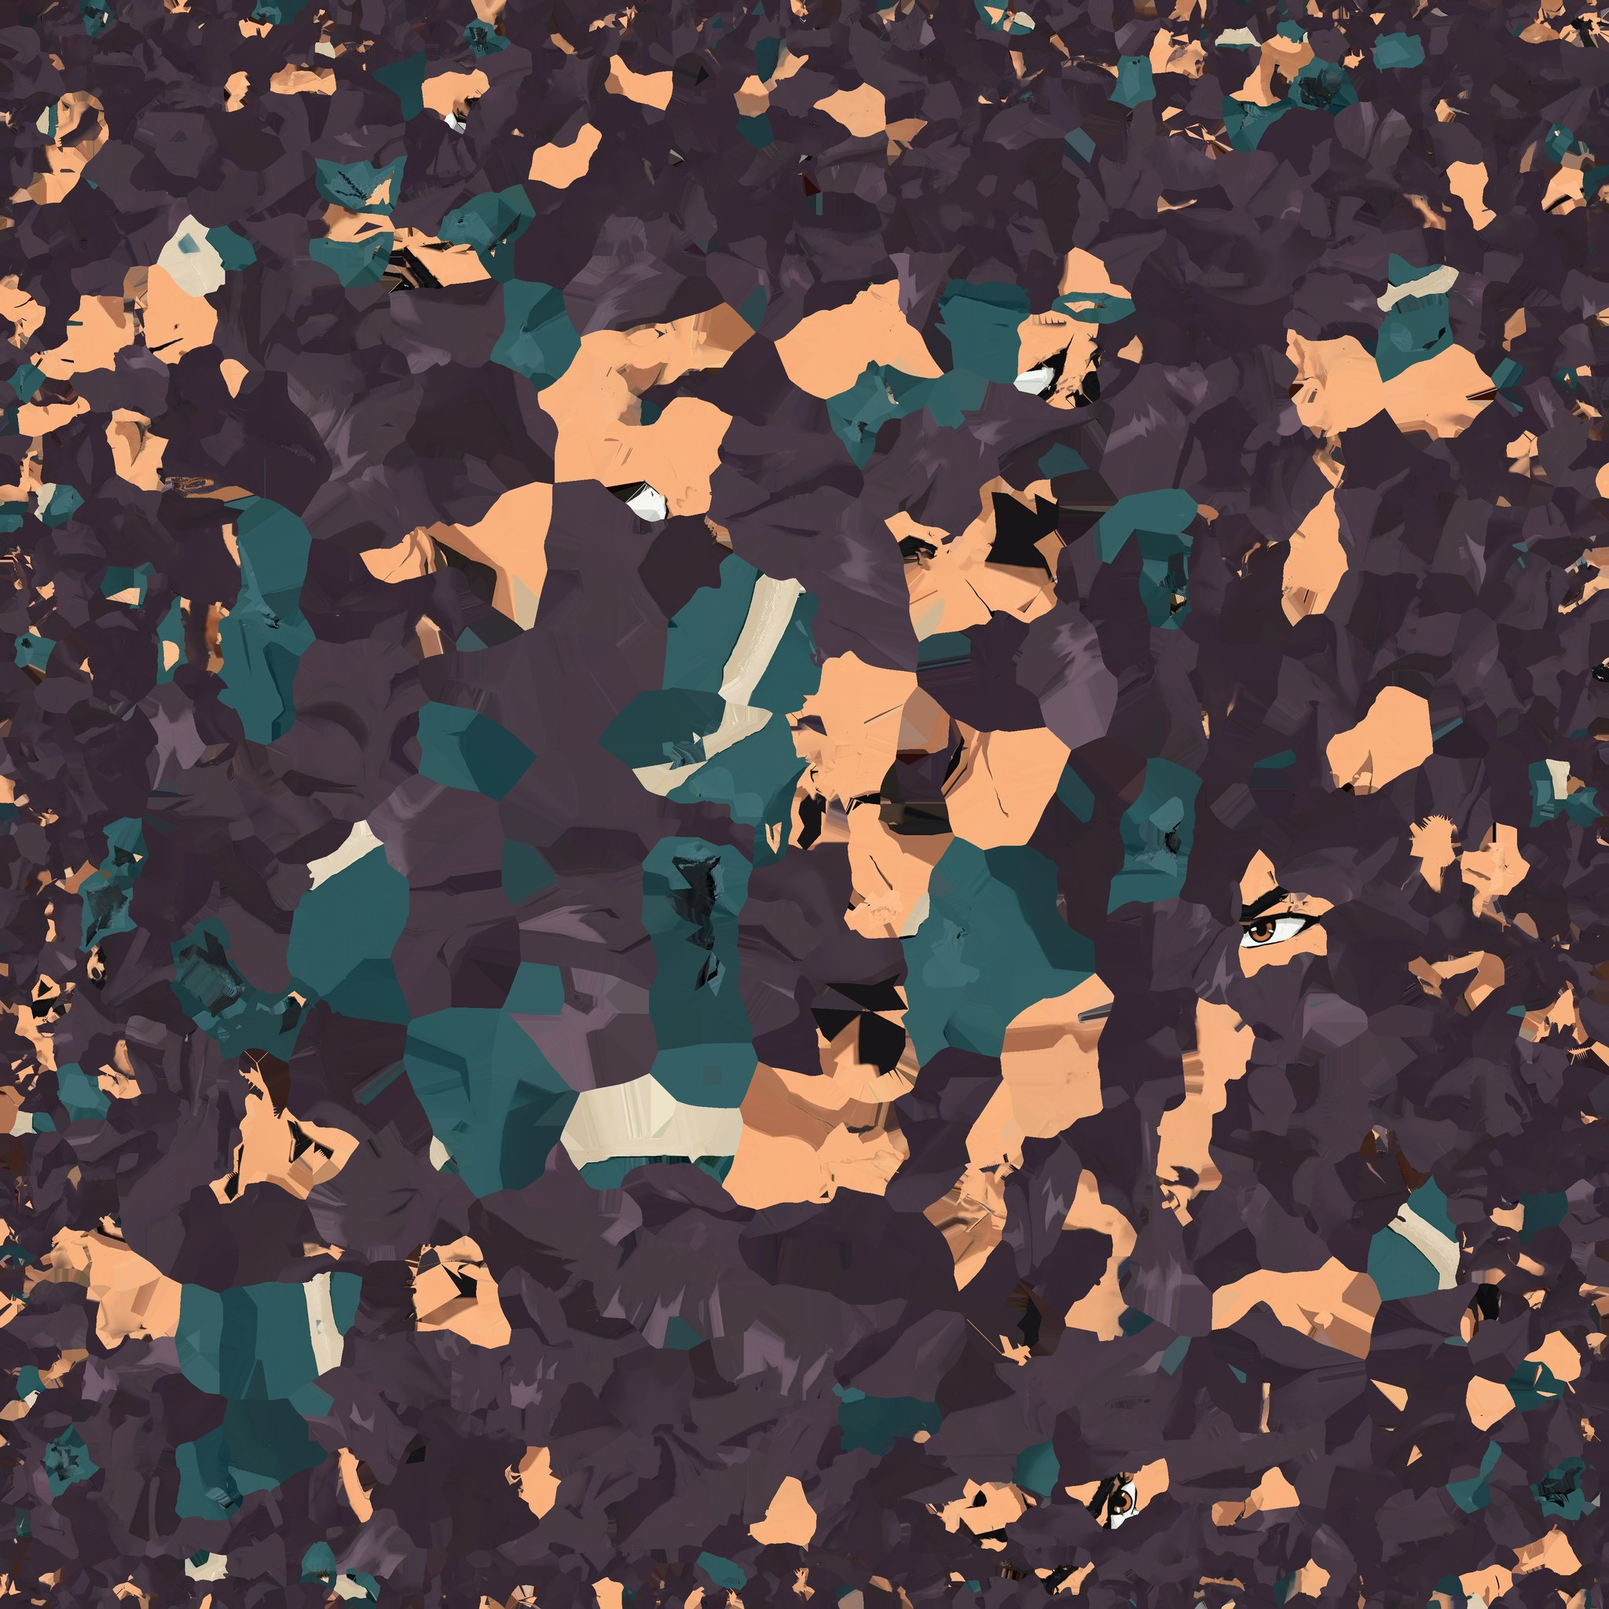
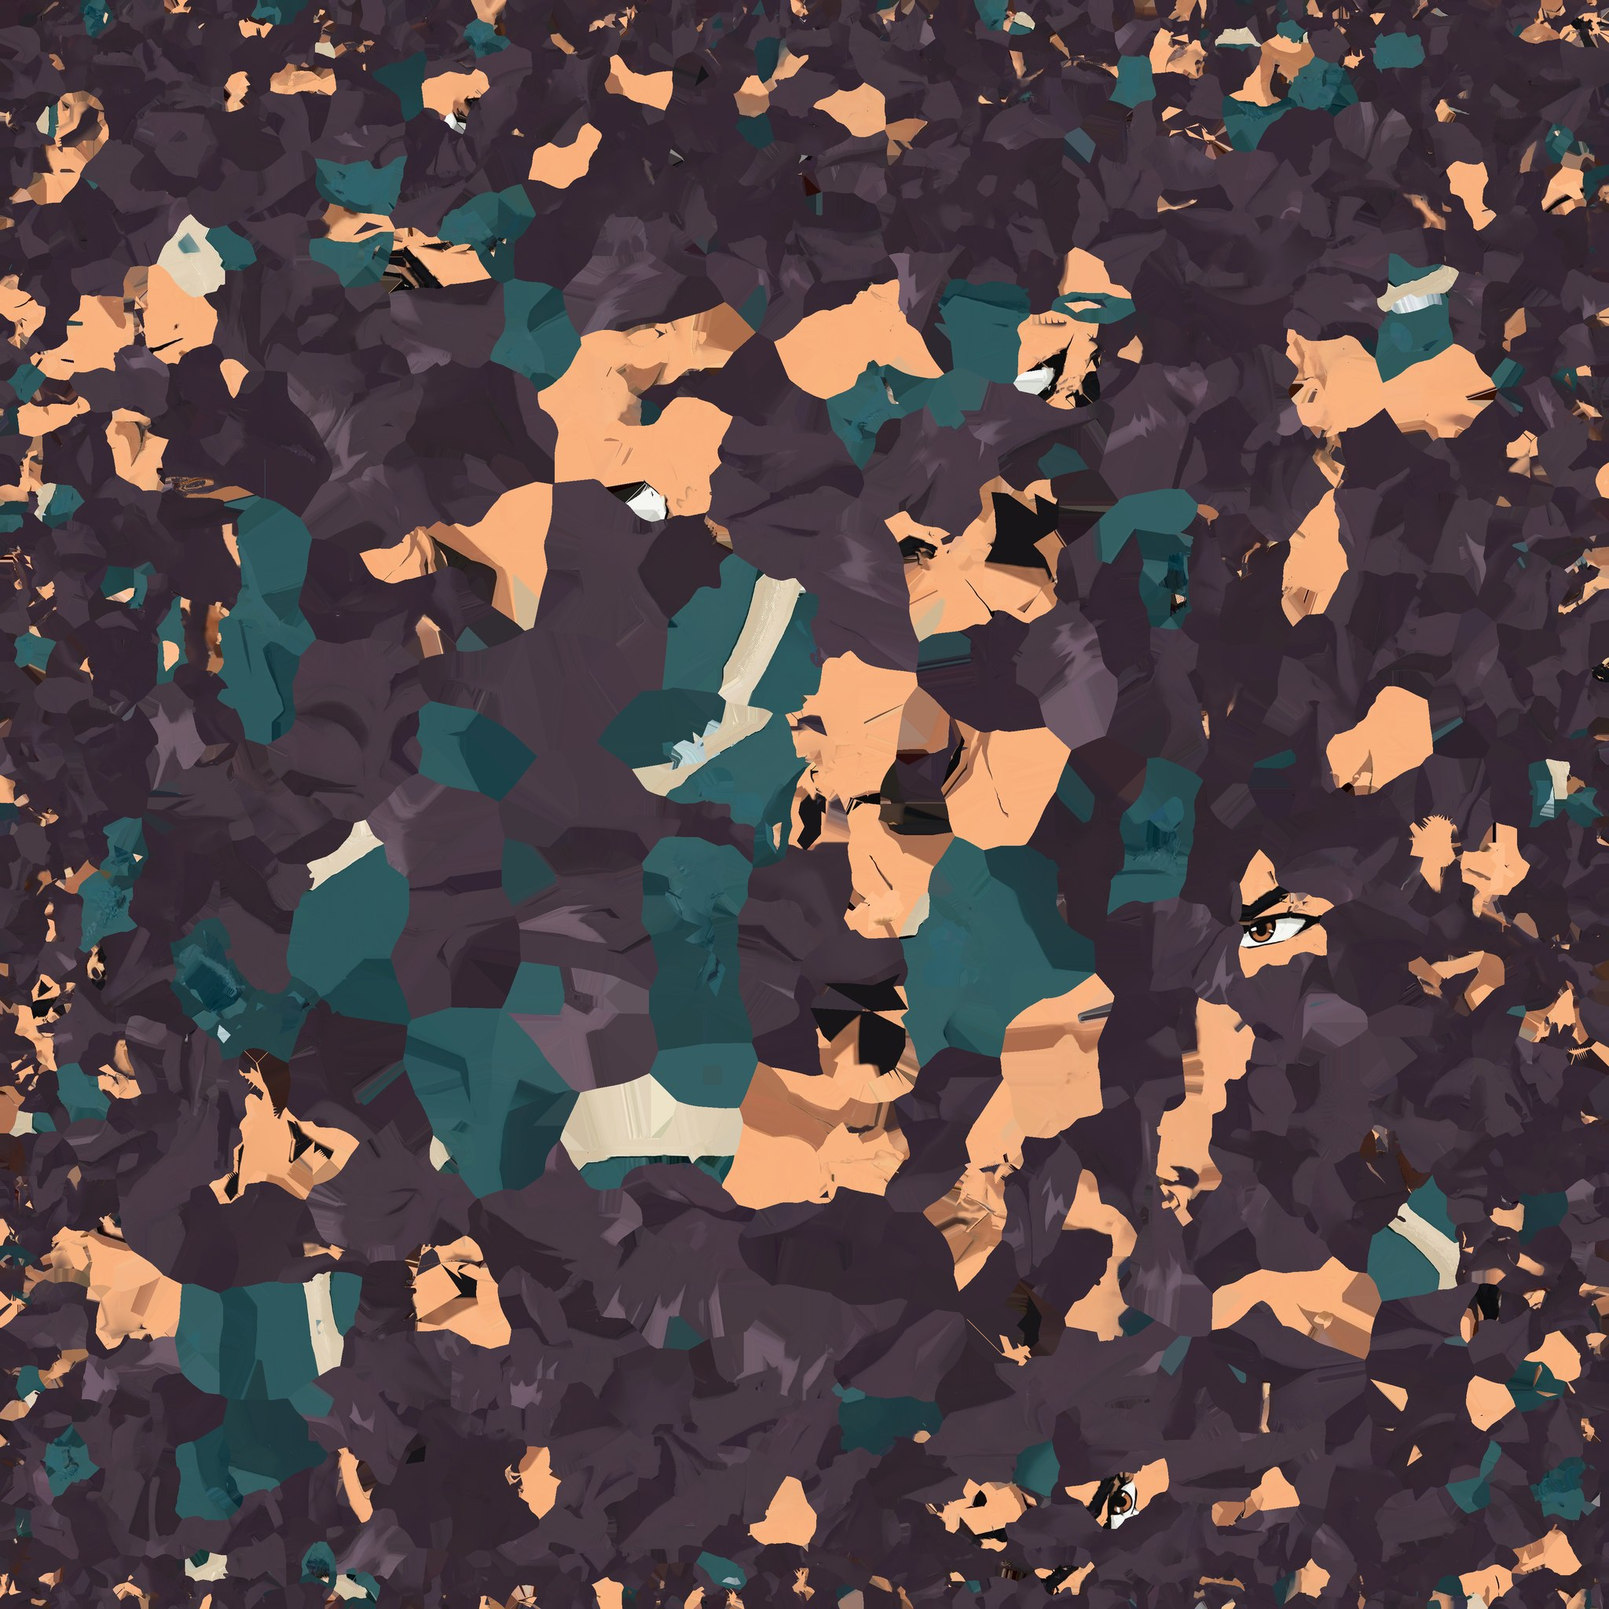
Anteprima di Ren: corpo nella pittura di Meshy con le righe dei fogli ricalcate
tools/paint_meshy.py: la pittura del look parte dalla texture di Meshy
(piu' pulita, chiesto da Denis); l'arancione delle vecchie code, dipinto
anche sui pantaloni e sulle punte del gilet, prende il colore dei
vestiti intorno; sopra, leggere, le righe sottili dei fogli. Bordi dei
pezzi e JPEG a colore pieno: niente arancione che sbava nei pantaloni.
Viso e testa invariati.

Claude-Session: https://claude.ai/code/session_014XUVKvWBodq3kjfPiKyGRo

diff --git a/tools/paint_meshy.py b/tools/paint_meshy.py
@@ -1,0 +1,87 @@
+#!/usr/bin/env python3
+"""Ren's body in Meshy's own paint with the drawings' lines traced lightly over it (8/11/2026, Denis: "il modello di
+meshy senza i tuoi disegni è molto più pulito nei vestiti ed il resto del corpo ... rifarlo disegnato come meshy ma con
+leggeri calchi"); the head (tools/ren_head.py) is not touched.
+
+usage: python3 tools/paint_meshy.py PACKAGE_DIR DRAWN.jpg OUT.jpg
+  PACKAGE_DIR  the tools/meshy_pack.py package: its texture is the base
+  DRAWN.jpg    the drawings painted on the model (tools/paint_from_drawing.py, then tools/paint_views.py): only their
+               thin dark lines are taken
+  OUT.jpg      the look's paint (viewer_assets/ren/ren_painted.jpg)
+
+- the old tails' paint: Meshy painted the sash's tails on the trousers and the vest's flaps under them too (orange specks
+  and streaks under the band, where the tails hung; the tails' own shapes are hidden, tools/ren_head.py): those texels
+  (orange or its brown mixes, under the band, not on the arms nor on the tails' hidden shapes) take the colour of the
+  nearest texel (on the model, in 3D) that is not, softened among themselves;
+- the tracing: the drawings' dark lines (darker than TRACE_LUM, thinner than about 2 TRACE_W + 1 texels: not the big
+  black shapes of the folds; in pieces of TRACE_MIN texels or more: lines, not specks) over Meshy's paint in TRACE_INK,
+  TRACE_ALPHA opaque; not on the hands (drawn spread differently) nor on the head;
+- the texels between the pieces take their nearest piece's colour (as the other paints).
+"""
+import os, sys
+import numpy as np
+from PIL import Image, ImageDraw
+from scipy import ndimage
+from scipy.spatial import cKDTree
+
+sys.path.insert(0, os.path.dirname(os.path.abspath(__file__)))
+from paint_views import load, texel_table
+from ren_look import sash_tails, SASH_BAND
+
+TRACE_LUM, TRACE_W, TRACE_ALPHA, TRACE_INK, TRACE_MIN = 50., 2, .6, np.array([22., 20, 26]), 30
+TAIL_LOW, FILL_K = .12, 48   # the old tails' paint: from this height (m) up to the band; its fill: the median of that many texels
+
+
+def orangeish(c):
+    """Orange and its browns, light or dark (n x 3): warm (red over blue and green) and strongly so for their
+    brightness (not the trousers' purple grey, nor the boots' beige trim, nor the wraps' warm white)."""
+    r, g, b = c[:, 0], c[:, 1], c[:, 2]
+    return (r > 20) & (r - b > 16) & (r - g > 10) & ((r - b) > .25 * r)
+
+
+def main(pkg, drawn, out):
+    name, P, N, UV, I, HEADW, HANDW, FOREW, ARMW = load(pkg)
+    T = np.asarray(Image.open(os.path.join(pkg, name + '.jpg')).convert('RGB')).astype(np.float64); TS = T.shape[0]
+    Dw = np.asarray(Image.open(drawn).convert('RGB')).astype(np.float64)
+    if Dw.shape != T.shape: sys.exit('the drawn paint and the package\'s texture differ in size')
+    ys, xs, ks, bary, pos, nor = texel_table(P, N, UV, I, TS)
+    at = lambda W_: (W_[I[ks]] * bary).sum(1)
+    hw, hdw, aw = at(HEADW), at(HANDW), at(ARMW)
+    # the old tails' shapes (hidden by ren_head.py): they give no colour, and take the clothes' too (their orange, though
+    # hidden, bled along the seams into the trousers next to them in the texture: the filtering, the mipmaps)
+    vcol = T[np.clip((UV[:, 1] * TS).astype(int), 0, TS - 1), np.clip((UV[:, 0] * TS).astype(int), 0, TS - 1)]
+    tv = np.zeros(len(P), bool)
+    for tl in sash_tails(P, vcol, I): tv[tl] = True
+    tail_t = tv[I].sum(1) >= 2; on_tail = tail_t[ks]
+    out_img = T.copy(); c0 = T[ys, xs]
+    low = (pos[:, 1] < SASH_BAND) & (pos[:, 1] > TAIL_LOW) & (aw < .5) & (hw < .5)
+    bad = low & (orangeish(c0) | on_tail)
+    src = low & ~bad
+    tree = cKDTree(pos[src]); _, j = tree.query(pos[bad], k=FILL_K)
+    fill = np.median(c0[src][j], axis=1)   # (the median of the nearest clothes' texels: not one of Meshy's light streaks)
+    # (softened among themselves: the nearest colours make patches)
+    acc = np.zeros((TS, TS, 3)); cnt = np.zeros((TS, TS)); acc[ys[bad], xs[bad]] = fill; cnt[ys[bad], xs[bad]] = 1
+    sm = np.stack([ndimage.gaussian_filter(acc[..., k], 1.5) for k in range(3)], -1) / np.maximum(ndimage.gaussian_filter(cnt, 1.5), 1e-6)[..., None]
+    out_img[ys[bad], xs[bad]] = sm[ys[bad], xs[bad]]
+    print('old tails\' paint: %d texels under the band (orange or brown) in the colour of the clothes around them' % int(bad.sum()))
+    # the tracing: the drawings' thin dark lines
+    inside = np.zeros((TS, TS), bool); inside[ys, xs] = True
+    dark = (Dw.mean(2) < TRACE_LUM) & inside
+    disk = np.hypot(*np.mgrid[-TRACE_W:TRACE_W + 1, -TRACE_W:TRACE_W + 1]) <= TRACE_W + .01
+    thin = dark & ~ndimage.binary_opening(dark, structure=disk)
+    lab, n = ndimage.label(thin, structure=np.ones((3, 3)))   # (lines, not specks: the pieces of TRACE_MIN texels or more)
+    thin = np.isin(lab, np.nonzero(ndimage.sum(thin, lab, range(1, n + 1)) >= TRACE_MIN)[0] + 1)
+    ok = np.zeros((TS, TS), bool); ok[ys, xs] = (hdw < .5) & (hw < .5) & ~on_tail
+    a = np.clip(ndimage.gaussian_filter((thin & ok).astype(float), .6) * 1.6, 0, 1) * ok * TRACE_ALPHA
+    out_img = out_img * (1 - a[..., None]) + TRACE_INK * a[..., None]
+    print('tracing: %d texels of the drawings\' thin lines over Meshy\'s paint (%.0f%% opaque)' % (int((thin & ok).sum()), 100 * TRACE_ALPHA))
+    # every texel outside the pieces (their centres, as the texel table has them) takes its nearest piece texel's colour:
+    # around a thin piece the texels just outside it kept Meshy's old colours (the tails' orange next to a texel of the
+    # trousers), and the filtering drew them in
+    gy, gx = ndimage.distance_transform_edt(~inside, return_distances=False, return_indices=True); out_img = out_img[gy, gx]
+    Image.fromarray(np.clip(out_img, 0, 255).round().astype(np.uint8)).save(out, quality=85, subsampling=0, optimize=True)   # (4:4:4: halved colour resolution bled the band's orange into the trousers at the pieces' borders)
+
+
+if __name__ == '__main__':
+    if len(sys.argv) != 4: sys.exit(__doc__)
+    main(*sys.argv[1:])

diff --git a/tools/paint_views.py b/tools/paint_views.py
@@ -106,10 +106,8 @@ def seen_ids(P, I, sel, u, v, depth, H, Wd):
     a = np.asarray(idimg).astype(np.int64); return a[..., 0] + (a[..., 1] << 8) + (a[..., 2] << 16) - 1
 
 
-def main(pkg, painted, debug=None):
-    name, P, N, UV, I, HEADW, HANDW, FOREW, ARMW = load(pkg)
-    TEX = np.asarray(Image.open(painted).convert('RGB')).astype(np.float64); TS = TEX.shape[0]
-    # the texels: their triangle, barycentrics, 3D point and normal
+def texel_table(P, N, UV, I, TS):
+    """Every texel inside a triangle's piece: (rows, cols, its triangle, barycentrics, 3D point, normal)."""
     uvimg = Image.new('RGB', (TS, TS), (0, 0, 0)); dr = ImageDraw.Draw(uvimg)
     for k, t in enumerate(I):
         c = k + 1; dr.polygon([(UV[q, 0] * TS, UV[q, 1] * TS) for q in t], fill=(c & 255, (c >> 8) & 255, (c >> 16) & 255))
@@ -122,6 +120,13 @@ def main(pkg, painted, debug=None):
     bv = (d11 * d20 - d01 * d21) / den; bw_ = (d00 * d21 - d01 * d20) / den
     bary = np.clip(np.stack([1 - bv - bw_, bv, bw_], 1), 0, 1); bary /= bary.sum(1, keepdims=True)
     pos = (P[I[ks]] * bary[..., None]).sum(1); nor = (N[I[ks]] * bary[..., None]).sum(1); nor /= np.maximum(np.linalg.norm(nor, axis=1, keepdims=True), 1e-9)
+    return ys, xs, ks, bary, pos, nor
+
+
+def main(pkg, painted, debug=None):
+    name, P, N, UV, I, HEADW, HANDW, FOREW, ARMW = load(pkg)
+    TEX = np.asarray(Image.open(painted).convert('RGB')).astype(np.float64); TS = TEX.shape[0]
+    ys, xs, ks, bary, pos, nor = texel_table(P, N, UV, I, TS)   # (the texels: their triangle, barycentrics, 3D point and normal)
     from collections import defaultdict
     vt = defaultdict(set)
     for k, t in enumerate(I):

diff --git a/docs/HANDOFF.md b/docs/HANDOFF.md
@@ -147,6 +147,7 @@ Cose notate nelle revisioni; non costruirle finché Denis non lo chiede.
   - Colletto dietro il collo (8/11, versione 41; Denis: "il suo vestito da dietro il collo si stacca"): il bordo basso del colletto della testa nuova sta in media 1 cm sopra il gilet del corpo, e sotto la testa i triangoli del corpo sono nascosti: dall'alto e da dietro, fra i due, si vedeva dentro il corpo (un buco nero sotto il colletto) e la fascia bassa del colletto, frastagliata, nel teal della testa, stava sul gilet. Ora `tools/ren_collar.py` (chiamato da `ren_head.py` alla fine): una gonnellina dal bordo basso della testa (sotto 1,50 m) al punto più vicino del gilet rimasto, 1,5 mm sotto la sua superficie (dove c'è il gilet lo copre, dove c'è un buco lo chiude), in un colore piatto (`SKIRT_RGB`, il teal del gilet come lo mostra la sua luce cartoon: la testa ha luce piatta) preso da un blocco della texture fuori da ogni pezzo (dipinto dopo il riempimento dei bordi; abbastanza grande che il JPEG non ne cambi il colore); e i texel della testa a meno di 1 cm dal gilet prendono la pittura del gilet in quel punto (`<nome>_painted.jpg`). Provato e scartato: rimostrare i triangoli del colletto vecchio sotto il buco (199: tutti sporgevano dal colletto nuovo). +240 triangoli; tempo per fotogramma nel rumore (58,3 ms contro 61,3, 4 misure).
   - Corpo "disegnato" come i fogli (8/11, versione 42; Denis coi fogli di busto, gambe e schiena: "rendere il resto del corpo disegnato come nelle immagini senza cambiare proporzioni"): cambia solo la pittura, mai la forma. `tools/paint_views.py` (dopo `paint_from_drawing.py`, prima di rifare la testa: vedi `docs/meshy/REN.md`): (1) la schiena dal foglio da dietro (`ren_retro.png`: gilet con le sue pieghe e lo spacco in basso, pantaloni con le pieghe a V, muscoli delle braccia), allineato sulla sagoma come la vista di fronte (91,7% dei vertici dentro); (2) i fianchi di pantaloni e stivali dai fogli di tre quarti delle gambe (`ren_gambe_3viste.png`, 30° per lato) e i fianchi del gilet da quelli del busto (`ren_busto_3viste.png`, 47,5°), dove né la vista di fronte né quella da dietro arrivano; allineati una volta per tutte sui materiali (il modello disegnato nei suoi colori confrontato col foglio) e scritti in `VIEWS`. Regola di sicurezza: ogni materiale tiene il suo (il colore del foglio solo dove il foglio mostra lo stesso materiale, oppure le sue righe nere su pelle, gilet e fascia): così le code arancioni e i bordi chiari del foglio non finiscono sui pantaloni, il bordino degli stivali non va sul teal. Le viste di tre quarti dipingono solo il loro materiale (il gilet solo sul gilet; pantaloni, stivali e fasce sulle gambe): le braccia di tre quarti nel foglio sono in un'altra posa, le loro righe sarebbero finite nel posto sbagliato (provato: macchie nere sulle spalle). Niente sulla testa, sulle mani, sulla fascia in vita. Provato e scartato: allineare le viste di tre quarti solo sulla sagoma (trovava profili sbagliati). Tempo per fotogramma: solo la texture cambia (61,8 ms contro 67,6 della versione 41, nel rumore).
   - Via le vecchie code della fascia (8/11, versione 43; Denis: "rimuovere dal corpo la vecchia fascia ... le fasce che abbiamo sostituito con quelle che si muovono"): le due code che Meshy aveva fatto pendere ai fianchi (strisce scure accanto ai nastri arancioni che si muovono: la pittura le copriva col colore sotto, ma la forma restava) sono nascoste come i pezzi vecchi della testa (`hide` in `ren_head.py`, `TAILS_PIECE`, `TAILS_Y`): 2.496 triangoli (`ren_look.sash_tails`, l'arancione di Meshy sotto la fascia) più 196 di pezzetti rimasti staccati (i loro bordi scuri). I pantaloni sotto erano interi: nessun buco, controllato da 8 lati e nelle mosse (camminata, calci, a terra, presa). Il gioco col look spento non cambia. Tempo per fotogramma: 53,7 ms contro 57,2 (meno triangoli).
+  - Corpo nella pittura di Meshy con calchi leggeri (8/11 sera, versione 44; Denis: "il modello di meshy senza i tuoi disegni è molto più pulito nei vestiti ed il resto del corpo senza toccare il viso, riesci a rifarlo disegnato come meshy ma con leggeri calchi?", e sulla 43: "non hai rimosso le fasce che abbiamo sostituito, le hai semplicemente colorate"): `tools/paint_meshy.py` fa la pittura del look (`ren_painted.jpg`) partendo dalla texture di Meshy: (1) l'arancione delle vecchie code (Meshy le aveva dipinte anche sui pantaloni e sulle punte del gilet sotto la fascia: puntini e strisce arancioni e marroni, chiari e scuri; e sulle code stesse, che pur nascoste lo trascinavano nei pantaloni vicini con il filtro della texture) prende il colore dei vestiti intorno (la mediana dei 48 texel più vicini in 3D che non sono arancioni: non una striscia chiara di Meshy); (2) le righe nere sottili dei fogli (quelle che `paint_from_drawing.py` + `paint_views.py` dipingono sul modello, solo le linee, non le grandi pieghe nere, a pezzi di almeno 30 texel) ricalcate al 60% sopra; (3) i texel fuori dai pezzi prendono il colore del pezzo più vicino (prima, attorno ai pezzi sottili restavano i colori vecchi: l'arancione delle code accanto a un texel dei pantaloni); (4) salvata a colore pieno (JPEG 4:4:4: con il colore a metà risoluzione l'arancione della fascia sbavava nei pantaloni ai bordi dei pezzi; 890 KB contro 705). Fasce di braccia e caviglie e stivali tornano quelli di Meshy (bianco pulito). La testa non cambia (il colletto prende la nuova pittura del gilet). `paint_from_drawing.py` e `paint_views.py` restano, ora servono a dare le righe. Tempo per fotogramma nel rumore (stessa geometria). Nota: `viewer_check.py` è fallito una volta su 9 prove (non ripetuto; il dettaglio non era nel registro).
   - `tools/paint_head.py` (pittura della testa dalle 3 viste) è provato ma non usato: proiettato, il disegno si sdoppiava sugli occhi; la texture di Meshy è più pulita.
   - Tempo per fotogramma nell'anteprima, in software: 63,0 ms contro 57,7 della versione 16 (+9%, media di 6 misure alternate; la testa ha 14.000 triangoli più il suo contorno). Una testa da 12.000 triangoli avrebbe i capelli più spigolosi dietro: scartata. Il gioco non cambia (look spento).
 - `paint_from_drawing.py` ora riempie anche gli spazi tra i pezzi della texture col colore del pezzo vicino: i vecchi colori lì si vedevano come crepe lungo le cuciture.
@@ -158,4 +159,4 @@ Cose notate nelle revisioni; non costruirle finché Denis non lo chiede.
 - Per dopo (annotate, non fatte): i fogli del corpo che Denis ha mandato l'8/11 (`docs/ref/personaggi/ren_busto_3viste.png`, `ren_gambe_3viste.png`: destra, fronte, sinistra; `ren_retro.png`: tutto il corpo da dietro; il foglio della testa che ha rimandato è identico a `ren_testa_3viste.png`) per rifare o ridipingere il corpo dai lati e da dietro (fasce con il polsino scuro, stivali, pantaloni, code della fascia arancione), oggi dipinto solo dalla vista di fronte di `ren.png`; l'ombra nera sotto il mento come nel foglio (una V spessa sul collo, sotto la mascella; nel foglio c'è in tutte e tre le viste), da proporre a Denis prima di farla; in guardia la testa alzata di 20° invece di 12° (`headUp` del look: provato in una copia, con 20° si vedono entrambi gli occhi sopra il pugno, a 28° sembra guardare in alto; è una scelta di posa, da decidere con Denis); stesso metodo delle 3 viste per Kael, se Denis fa il suo foglio; se Denis vuole punte dei capelli ancora più lunghe, un'altra prova Meshy (30 crediti; alleggerire il modello non le arrotonda: a 60.000 e a 16.000 triangoli la sagoma è la stessa).
 
 ## Prossimo passo
-Denis guarda l'anteprima (versione 43: le vecchie code della fascia tolte, il colletto unito al gilet dietro il collo, schiena e fianchi disegnati dai suoi fogli; il viso approvato: "finalmente la faccia è buona") con la testa nuova dal suo foglio, le tempie pulite, il colletto rigido, le fasce e gli stivali come il disegno. Se gli piace: accendere il look nel gioco con i 3 passi scritti sopra ("Per accendere il look nel gioco"), test, ripubblicare gioco e app. Poi: Kael di Meshy (modello dal suo disegno + scheletro; le animazioni si riusano), mostrando prima saldo e costo.
+Denis guarda l'anteprima (versione 44: il corpo nella pittura pulita di Meshy con le righe dei fogli ricalcate leggere, niente più arancione delle vecchie code, il colletto unito al gilet; il viso approvato: "finalmente la faccia è buona") con la testa nuova dal suo foglio, le tempie pulite, il colletto rigido, le fasce e gli stivali come il disegno. Se gli piace: accendere il look nel gioco con i 3 passi scritti sopra ("Per accendere il look nel gioco"), test, ripubblicare gioco e app. Poi: Kael di Meshy (modello dal suo disegno + scheletro; le animazioni si riusano), mostrando prima saldo e costo.

diff --git a/docs/meshy/REN.md b/docs/meshy/REN.md
@@ -66,7 +66,9 @@ Rifarla (i GLB stanno in `meshy/meshy_output/20261108_011130_voidrise-ren-testa_
 2. `python3 tools/ren_head.py meshy/head/testa_v2_face.glb assets/ren viewer_assets/ren` — taglio sopra le spalle,
    posizione sul corpo, ossa, occhi a filo del viso, frangia vicina al viso, colori del foglio; scrive `ren_head.json`,
    `.bin`, `.jpg` (i punti di riferimento di ogni busto stanno in `BUSTS`).
-3. `python3 tools/paint_from_drawing.py assets/ren docs/ref/personaggi/ren.png viewer_assets/ren/ren_painted.jpg` (pulisce
-   il petto sotto il colletto nuovo), poi `python3 tools/paint_views.py assets/ren viewer_assets/ren/ren_painted.jpg` (la schiena dal foglio da dietro,
-   i fianchi di gilet, pantaloni e stivali dai fogli di tre quarti), poi di nuovo il passo 2 (il colletto prende la
-   pittura del gilet), poi `bash mk.sh`.
+3. La pittura del corpo (dal 8/11 sera: quella di Meshy, più pulita, con le righe dei fogli ricalcate leggere):
+   `python3 tools/paint_from_drawing.py assets/ren docs/ref/personaggi/ren.png /tmp/ren_drawn.jpg`, poi
+   `python3 tools/paint_views.py assets/ren /tmp/ren_drawn.jpg` (i fogli dipinti sul modello: davanti, dietro, tre
+   quarti; da qui si prendono solo le righe sottili), poi `python3 tools/paint_meshy.py assets/ren /tmp/ren_drawn.jpg
+   viewer_assets/ren/ren_painted.jpg` (la texture di Meshy, via l'arancione delle vecchie code sotto la fascia, le
+   righe ricalcate); poi di nuovo il passo 2 (il colletto prende la pittura del gilet), poi `bash mk.sh`.
